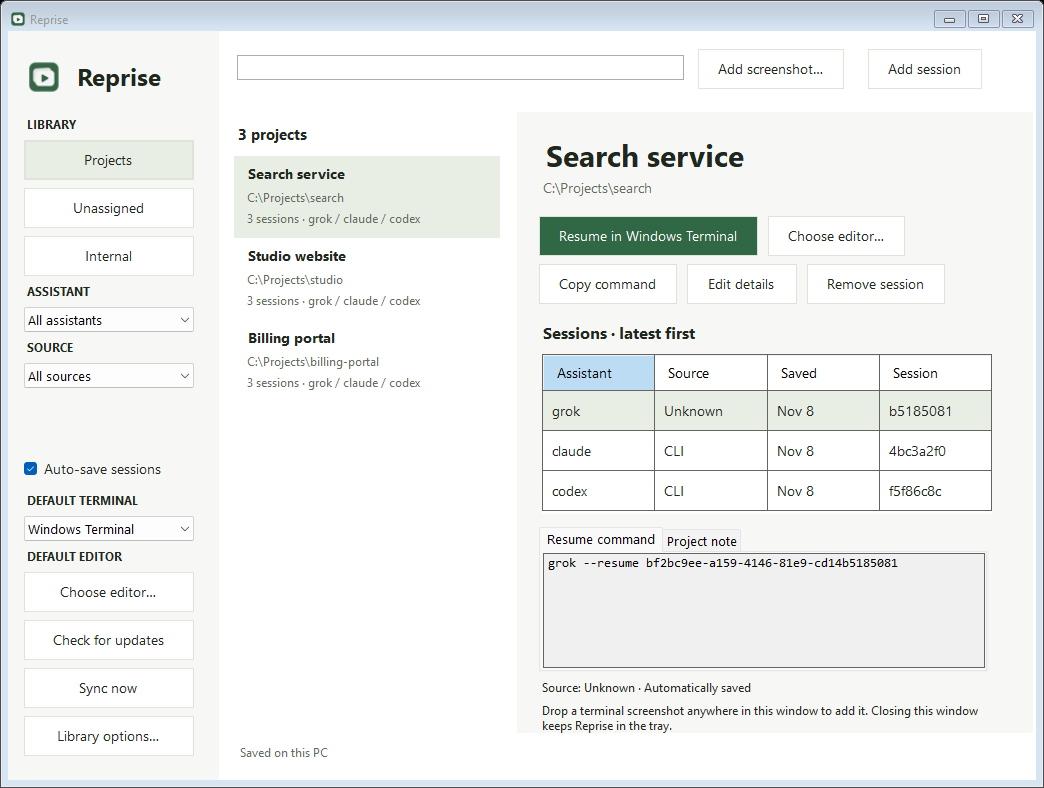
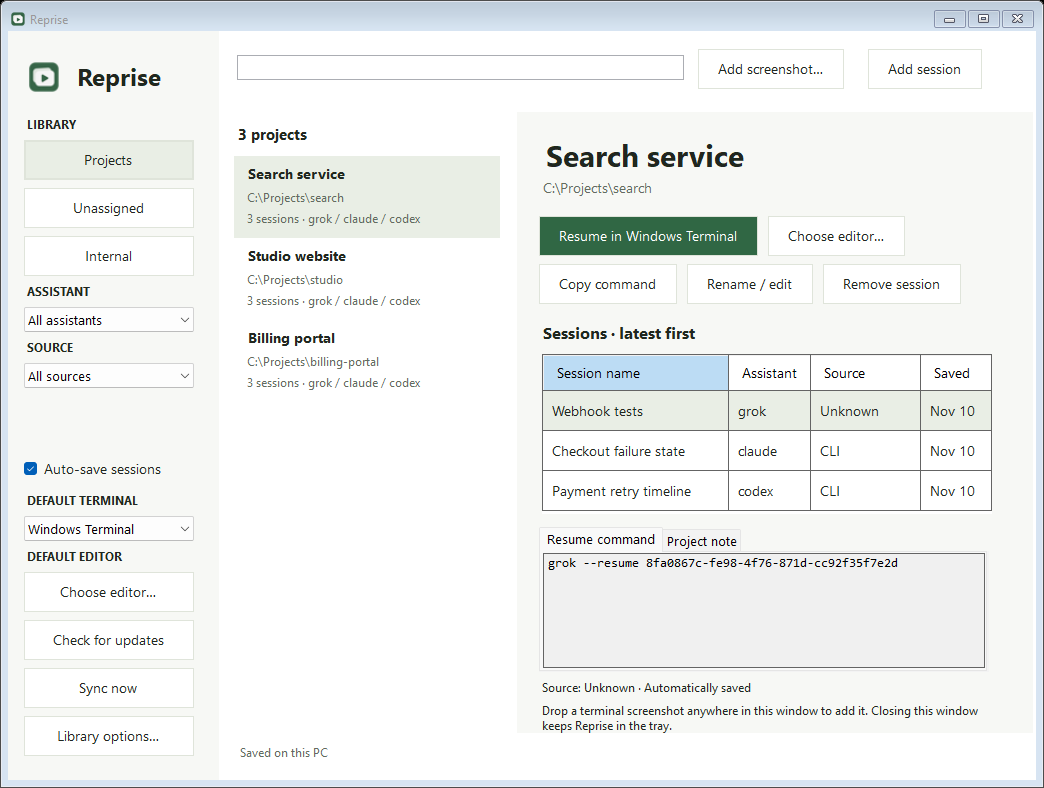
Document session names and refresh native app previews

diff --git a/docs/index.html b/docs/index.html
@@ -28,7 +28,7 @@
       content="https://en-code23.github.io/reprise/assets/library-light.png"
     />
     <link rel="icon" href="assets/reprise-icon.png?v=1.5.1" />
-    <link rel="stylesheet" href="styles.css?v=1.6.0" />
+    <link rel="stylesheet" href="styles.css?v=1.7.0" />
   </head>
   <body>
     <header class="navigation wrap">
@@ -108,7 +108,7 @@
           </div>
           <img
             id="app-preview"
-            src="assets/library-light.png"
+            src="assets/library-light.png?v=1.7.0"
             alt="Reprise project library: five project folders, with 18 Billing portal sessions grouped into one row and a Resume in Terminal action."
             width="1180"
             height="800"
@@ -136,7 +136,8 @@
           <h2>You see projects,<br />not repeated names.</h2>
           <p>
             One directory gets one place in your library, even across
-            assistants. Previous sessions live inside the project, newest first.
+            assistants. Give each conversation a name, then find it in the project's
+            history or search. Previous sessions stay available, newest first.
           </p>
         </article>
         <article>
@@ -175,6 +176,17 @@
       <section class="questions wrap" id="questions">
         <h2>A few useful details.</h2>
         <div class="question-list">
+          <details>
+            <summary>Can I name individual sessions?</summary>
+            <p>
+              Yes. Reprise imports recorded Codex, Claude, and Grok titles when available.
+              On Mac, select a session and click Rename; on Windows, choose Rename / edit.
+              You can also enter a name while adding a screenshot or command. Names are
+              searchable and stay saved when sessions sync. Clear your custom name to use
+              the imported title again. Naming a session in Reprise leaves its project
+              and resume command intact.
+            </p>
+          </details>
           <details>
             <summary>Can I separate desktop app and CLI sessions?</summary>
             <p>
@@ -289,6 +301,6 @@
         >MIT License</a
       >
     </footer>
-    <script src="app.js?v=1.6.0"></script>
+    <script src="app.js?v=1.7.0"></script>
   </body>
 </html>

diff --git a/docs/app.js b/docs/app.js
@@ -37,7 +37,7 @@ let previewPlatform = systemPlatform;
 let previewDark = false;
 function renderPreview() {
   const windows = previewPlatform === "windows";
-  const path = windows ? "assets/windows-library.png" : previewDark ? "assets/library-dark.png" : "assets/library-light.png";
+  const path = (windows ? "assets/windows-library.png" : previewDark ? "assets/library-dark.png" : "assets/library-light.png") + "?v=1.7.0";
   const preview = document.getElementById("app-preview");
   preview.src = path;
   preview.alt = windows ? "Native Reprise Windows project library with example sessions." : "Native Reprise Mac project library with example sessions.";

diff --git a/README.md b/README.md
@@ -27,10 +27,18 @@ Windows sessions and preferences live in `%LOCALAPPDATA%\RepriseLibrary`, outsid
 Build on Windows with .NET 10 and the Visual Studio C++ redistributable files available:
 
 ```powershell
-./scripts/build-windows.ps1 -Version 1.6.0
+./scripts/build-windows.ps1 -Version 1.7.0
 ```
 
 The script runs core checks, publishes a self-contained app, verifies its UI/OCR on Windows, and builds the installer and update packages with pinned Velopack tooling. `-TestInstaller` additionally installs and tests the package on a clean CI runner. Windows previews are saved under `build/windows/qa/`. Run the portable core checks on any .NET 10 host with `dotnet run --project windows/Reprise.Core.Tests -c Release`.
+
+## Session names on Mac and Windows
+
+Select a project, then choose a session by name. On Mac, click **Rename** beside the selected session's name, or right-click its history row. On Windows, use **Rename / edit** or double-click the session row. A Session name field is also available when adding a screenshot or entering a command.
+
+Saved names are imported from Codex's `session_index.jsonl`, Claude's `custom-title` rename records, and Grok's `generated_title` metadata. You can give any session your own name in Reprise. Your name survives sync and restart; clear the field to use the latest imported name again. Entries without a name show a short session-ID fallback. Names are searchable, and changing one leaves the project grouping and resume command intact. Reprise does not write names back to the original CLI files.
+
+The Codex index read is limited to its most recent 8 MB. Claude name discovery additionally reads up to 64 KB from the end of a transcript, retaining only explicit rename records. Names outside these bounds may need to be entered manually. Names are normalized to one line and limited to 200 characters.
 
 The remaining sections describe the Mac app unless stated otherwise.
 
@@ -48,7 +56,7 @@ The library shows one row per project directory, with sessions from different as
 
 Each session shows its recorded source: **Desktop app**, **CLI**, **IDE extension**, **SDK / automation**, **Multiple clients**, or **Unknown**. Combine an assistant filter with the **All sources** menu to show, for example, Codex desktop sessions or Claude CLI sessions without splitting the project library into duplicate rows.
 
-Codex detection uses specific `originator` markers, preferring them over the broad `source` value (Desktop can also report `vscode`). Claude detection uses top-level `entrypoint` metadata such as `cli`, `claude-desktop`, `sdk-cli`, and `sdk-py`. Multiple recognised entrypoints in the scanned portion are labelled Multiple clients. Discovery still reads only the first 256 KB of a file; it cannot reliably identify every client used throughout the whole conversation.
+Codex detection uses specific `originator` markers, preferring them over the broad `source` value (Desktop can also report `vscode`). Claude detection uses top-level `entrypoint` metadata such as `cli`, `claude-desktop`, `sdk-cli`, and `sdk-py`. Multiple recognised entrypoints in the scanned portion are labelled Multiple clients. Source detection uses only the first 256 KB of a file; it cannot reliably identify every client used throughout the whole conversation.
 
 Records without enough evidence stay Unknown. Use **Session details → Session source** to correct a label or select Automatic to return to metadata detection. The same selector is available during screenshot/manual capture review. On the next sync, old records gain metadata labels without losing your edits or overrides.
 
@@ -74,7 +82,7 @@ The release workflow requires the repository secret `SPARKLE_PRIVATE_KEY`. Keep 
 
 While Reprise is running, it scans `~/.codex/sessions`, `~/.claude/projects`, and `~/.grok/sessions` at startup and every 30 seconds. `CODEX_HOME`, `CLAUDE_CONFIG_DIR`, and `GROK_HOME` are respected when present in the app's environment. Use **Sync now** for an immediate refresh, or turn off **Auto-save local sessions** at the bottom of the library.
 
-Only session ID, assistant, project directory, activity time, and source metadata are retained. Conversation messages and tool output are not imported. Reading is limited to the first 256 KB of Codex/Claude transcripts. For Grok Build, only `summary.json` is read, with a 1 MB limit; its `info.id` and `info.cwd` fields are authoritative, and its saved activity timestamps take precedence over the file modification time. Grok transcripts, prompts, generated titles, and conversation summaries are not imported. Unsupported or incomplete files are skipped and may be found on a later scan. Nested subagent folders and symbolic-link summaries are excluded.
+Only session ID, name, assistant, project directory, activity time, and source metadata are retained. Conversation messages and tool output are not imported. Header reading is limited to the first 256 KB of Codex/Claude transcripts; the additional name metadata reads are bounded as described above. For Grok Build, only `summary.json` is read, with a 1 MB limit; its `info.id` and `info.cwd` fields are authoritative, and its saved activity timestamps take precedence over the file modification time. Grok's generated title is retained as the session name; transcripts, prompts, and conversation summaries are not imported. Unsupported or incomplete files are skipped and may be found on a later scan. Nested subagent folders and symbolic-link summaries are excluded.
 
 Grok Build's summary format is shared by TUI, headless, and ACP clients and does not reliably identify the originating client. Imported Grok sources therefore stay Unknown unless set manually. This integration supports the installed Grok Build format, not arbitrary third-party Grok clients or cloud chat histories. See [Grok Build's session format](https://github.com/xai-org/grok-build/blob/main/crates/codegen/xai-grok-pager/docs/user-guide/17-sessions.md).
 

diff --git a/CHANGELOG.md b/CHANGELOG.md
@@ -1,5 +1,12 @@
 # Release notes
 
+## 1.7.0
+
+- Add editable, searchable session names on Mac and Windows, separate from project names and resume commands. Name sessions during capture or rename them from the library.
+- Import recorded Codex, Claude, and Grok session titles using bounded local metadata reads. Show a short session-ID fallback when no title is available.
+- Keep custom names during sync, duplicate capture, and restart. Clearing a custom name restores the latest imported title. Existing libraries load without migration or deleted sessions.
+- Show names in session history and Mac menu bar recents, and update the website's native app previews and naming instructions.
+
 ## 1.6.1
 
 - Show the Mac app in the Dock and app switcher as well as the menu bar. Clicking its Dock icon opens the library and restores a minimized library window.
